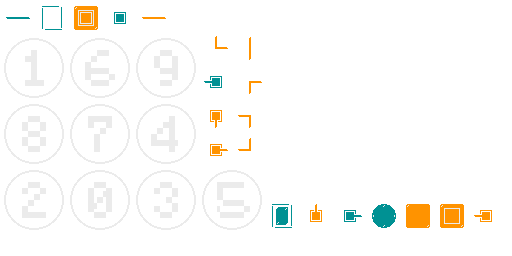
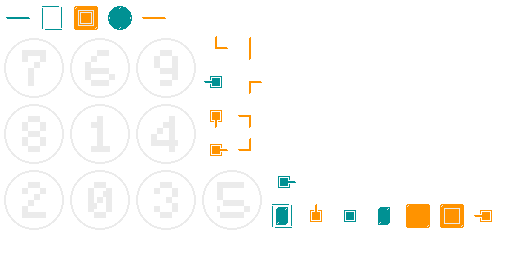
render level items

Changed region(s): [[0.7188, 0.7812, 0.7812, 0.9062], [0.1875, 0.0, 0.2812, 0.125], [0.5312, 0.6875, 0.5938, 0.75]]

diff --git a/core/src/main/java/com/jazzjack/rab/bit/cmiyc/level/meta/ObjectTypeParser.java b/core/src/main/java/com/jazzjack/rab/bit/cmiyc/level/meta/ObjectTypeParser.java
@@ -6,9 +6,8 @@ import com.badlogic.gdx.utils.XmlReader;
 
 import java.util.HashMap;
 import java.util.Map;
+import java.util.Objects;
 import java.util.stream.Stream;
-
-import static java.lang.String.format;
 
 public class ObjectTypeParser {
 
@@ -26,11 +25,13 @@ public class ObjectTypeParser {
     }
 
     public Map<String, String> getDefaultProperties(String objectType) {
+        Map<String, String> defaultProperties = new HashMap<>();
         XmlReader.Element objectTypeElement = getObjectType(objectType);
-        Array<XmlReader.Element> objectTypeProperties = objectTypeElement.getChildrenByName(ELEMENT_PROPERTY);
-        Map<String, String> defaultProperties = new HashMap<>(objectTypeProperties.size);
-        for (XmlReader.Element propertyElement : objectTypeProperties) {
-            defaultProperties.put(propertyElement.getAttribute(ATTRIBUTE_NAME), propertyElement.getAttribute(ATTRIBUTE_DEFAULT));
+        if (objectTypeElement != null) {
+            Array<XmlReader.Element> objectTypeProperties = objectTypeElement.getChildrenByName(ELEMENT_PROPERTY);
+            for (XmlReader.Element propertyElement : objectTypeProperties) {
+                defaultProperties.put(propertyElement.getAttribute(ATTRIBUTE_NAME), propertyElement.getAttribute(ATTRIBUTE_DEFAULT));
+            }
         }
         return defaultProperties;
     }
@@ -42,13 +43,10 @@ public class ObjectTypeParser {
     private XmlReader.Element getChildElementWithAttribute(XmlReader.Element parentElement, String childElementName, String attributeName, String attributeValue) {
         Array<XmlReader.Element> objecttypes = parentElement.getChildrenByName(childElementName);
         return Stream.of(objecttypes.items)
+                .filter(Objects::nonNull)
                 .filter(element -> attributeValue.equalsIgnoreCase(element.getAttribute(attributeName)))
                 .findFirst()
-                .orElseThrow(() -> new IllegalArgumentException(format(
-                        "No child element '%s' found for attribute name '%s' and attribute value '%s'",
-                        childElementName,
-                        attributeName,
-                        attributeValue)));
+                .orElse(null);
     }
 
 }

diff --git a/core/src/main/java/com/jazzjack/rab/bit/cmiyc/render/level/LevelRenderer.java b/core/src/main/java/com/jazzjack/rab/bit/cmiyc/render/level/LevelRenderer.java
@@ -7,6 +7,7 @@ import com.jazzjack.rab.bit.cmiyc.actor.enemy.route.Route;
 import com.jazzjack.rab.bit.cmiyc.actor.enemy.route.step.Step;
 import com.jazzjack.rab.bit.cmiyc.actor.enemy.route.step.StepNames;
 import com.jazzjack.rab.bit.cmiyc.level.Level;
+import com.jazzjack.rab.bit.cmiyc.level.meta.MarkerObject;
 import com.jazzjack.rab.bit.cmiyc.render.GameAssetManager;
 import com.jazzjack.rab.bit.cmiyc.render.Renderer;
 import com.jazzjack.rab.bit.cmiyc.shared.position.HasPosition;
@@ -53,6 +54,7 @@ public class LevelRenderer extends OrthogonalTiledMapRenderer implements Rendere
         renderPlayer();
         renderEnemies();
         renderEndPosition();
+        renderItems();
         batch.end();
         fogOfWarBuffer.renderSight();
     }
@@ -109,9 +111,22 @@ public class LevelRenderer extends OrthogonalTiledMapRenderer implements Rendere
                 1);
     }
 
+    private void renderItems() {
+        level.getLevelMetaData().getItems().forEach(this::drawItem);
+    }
+
+    private void drawItem(MarkerObject item) {
+        batch.draw(
+                assetManager.getTextureForName(item.getType()),
+                item.getX(),
+                item.getY(),
+                1,
+                1);
+    }
+
     private void drawActor(Actor actor) {
         batch.draw(
-                assetManager.getTextureForActor(actor),
+                assetManager.getTextureForName(actor.getName()),
                 actor.getX(),
                 actor.getY(),
                 1,

diff --git a/core/src/main/java/com/jazzjack/rab/bit/cmiyc/level/meta/MarkerObject.java b/core/src/main/java/com/jazzjack/rab/bit/cmiyc/level/meta/MarkerObject.java
@@ -2,6 +2,7 @@ package com.jazzjack.rab.bit.cmiyc.level.meta;
 
 import com.badlogic.gdx.maps.MapObject;
 import com.badlogic.gdx.maps.objects.EllipseMapObject;
+import com.badlogic.gdx.maps.objects.PolygonMapObject;
 import com.badlogic.gdx.maps.objects.RectangleMapObject;
 import com.jazzjack.rab.bit.cmiyc.level.InvalidLevelException;
 import com.jazzjack.rab.bit.cmiyc.shared.position.HasPosition;
@@ -32,6 +33,11 @@ public class MarkerObject implements HasPosition {
             return new Position(
                     (int) (rectangleMapObject.getRectangle().x / tilePixelSize),
                     (int) (rectangleMapObject.getRectangle().y / tilePixelSize));
+        } else if (mapObject instanceof PolygonMapObject) {
+            PolygonMapObject polygonMapObject = (PolygonMapObject) mapObject;
+            return new Position(
+                    (int) (polygonMapObject.getPolygon().getX() / tilePixelSize),
+                    (int) (polygonMapObject.getPolygon().getY() / tilePixelSize));
         } else {
             throw new InvalidLevelException("Unsupported marker object " + mapObject.getClass().getSimpleName());
         }

diff --git a/core/src/test/java/com/jazzjack/rab/bit/cmiyc/level/meta/LevelMetaDataFactoryTest.java b/core/src/test/java/com/jazzjack/rab/bit/cmiyc/level/meta/LevelMetaDataFactoryTest.java
@@ -52,6 +52,21 @@ class LevelMetaDataFactoryTest {
         assertEnemy(levelMetaData.getEnemies().get(2), "enemy3", Predictability.LOW, 16, 1);
     }
 
+    @Test
+    void expectItemsCorrectlyCreated() {
+        LevelMetaData levelMetaData = levelMetaDataFactory.create(levelTiledMap);
+
+        assertThat(levelMetaData.getItems()).hasSize(2);
+        assertItem(levelMetaData.getItems().get(0), "item-hp", 0, 0);
+        assertItem(levelMetaData.getItems().get(1), "item-hp", 1, 0);
+    }
+
+    private void assertItem(MarkerObject item, String name, int x, int y) {
+        assertThat(item.getType()).isEqualTo(name);
+        assertThat(item.getX()).isEqualTo(x);
+        assertThat(item.getY()).isEqualTo(y);
+    }
+
     private void assertEnemy(EnemyMarkerObject enemy, String name, Predictability predictability, int x, int y) {
         assertThat(enemy.getType()).isEqualTo(name);
         assertThat(enemy.getPredictability()).isEqualTo(predictability);

diff --git a/core/src/main/java/com/jazzjack/rab/bit/cmiyc/level/meta/LevelMetaDataFactory.java b/core/src/main/java/com/jazzjack/rab/bit/cmiyc/level/meta/LevelMetaDataFactory.java
@@ -30,7 +30,8 @@ public class LevelMetaDataFactory {
         MarkerObject startPosition = createSingleMarkerObject(tiledMap, MARKER_START, markerObjectFactory(tiledMap.getTilePixelSize()));
         MarkerObject endPosition = createSingleMarkerObject(tiledMap, MARKER_END, markerObjectFactory(tiledMap.getTilePixelSize()));
         List<EnemyMarkerObject> enemies = createListMarkerObject(tiledMap, MARKER_ENEMY, enemyMarkerObjectFactory(tiledMap.getTilePixelSize()));
-        return new LevelMetaData(startPosition, endPosition, enemies);
+        List<MarkerObject> items = createListMarkerObject(tiledMap, "item-", markerObjectFactory(tiledMap.getTilePixelSize()));
+        return new LevelMetaData(startPosition, endPosition, enemies, items);
     }
 
     private <T extends MarkerObject> T createSingleMarkerObject(LevelTiledMap tiledMap, String markerType, Function<MapObject, T> markerObjectFactory) {

diff --git a/core/src/main/java/com/jazzjack/rab/bit/cmiyc/level/meta/LevelMetaData.java b/core/src/main/java/com/jazzjack/rab/bit/cmiyc/level/meta/LevelMetaData.java
@@ -7,11 +7,13 @@ public class LevelMetaData {
     private final MarkerObject startPosition;
     private final MarkerObject endPosition;
     private final List<EnemyMarkerObject> enemies;
+    private final List<MarkerObject> items;
 
-    LevelMetaData(MarkerObject startPosition, MarkerObject endPosition, List<EnemyMarkerObject> enemies) {
+    LevelMetaData(MarkerObject startPosition, MarkerObject endPosition, List<EnemyMarkerObject> enemies, List<MarkerObject> items) {
         this.startPosition = startPosition;
         this.endPosition = endPosition;
         this.enemies = enemies;
+        this.items = items;
     }
 
     public MarkerObject getStartPosition() {
@@ -24,5 +26,9 @@ public class LevelMetaData {
 
     public List<EnemyMarkerObject> getEnemies() {
         return enemies;
+    }
+
+    public List<MarkerObject> getItems() {
+        return items;
     }
 }

diff --git a/core/src/main/java/com/jazzjack/rab/bit/cmiyc/render/GameAssetManager.java b/core/src/main/java/com/jazzjack/rab/bit/cmiyc/render/GameAssetManager.java
@@ -9,7 +9,6 @@ import com.badlogic.gdx.graphics.g2d.TextureAtlas;
 import com.badlogic.gdx.graphics.glutils.ShaderProgram;
 import com.badlogic.gdx.maps.tiled.TiledMap;
 import com.badlogic.gdx.maps.tiled.TmxMapLoader;
-import com.jazzjack.rab.bit.cmiyc.actor.Actor;
 
 import java.util.HashMap;
 import java.util.Map;
@@ -98,8 +97,8 @@ public class GameAssetManager extends AssetManager {
         return get(ATLAS_LIGHTS, TextureAtlas.class).findRegion(ATLAS_REGION_LIGHT);
     }
 
-    public TextureAtlas.AtlasRegion getTextureForActor(Actor actor) {
-        return get(ATLAS_CMIYC_ACTORS, TextureAtlas.class).findRegion(actor.getName());
+    public TextureAtlas.AtlasRegion getTextureForName(String name) {
+        return get(ATLAS_CMIYC_ACTORS, TextureAtlas.class).findRegion(name);
     }
 
     public TextureAtlas.AtlasRegion getHpFilledTexture() {

diff --git a/core/src/test/java/com/jazzjack/rab/bit/cmiyc/level/meta/ObjectTypeParserTest.java b/core/src/test/java/com/jazzjack/rab/bit/cmiyc/level/meta/ObjectTypeParserTest.java
@@ -35,4 +35,11 @@ class ObjectTypeParserTest {
         assertThat(defaultProperties).containsKey("predictability");
         assertThat(defaultProperties).containsValue("LOW");
     }
+
+    @Test
+    void epectEmptyDefautPropertiesIfObjectTypeNotFound() {
+        Map<String, String> defaultProperties = objectTypeParser.getDefaultProperties("unknown");
+
+        assertThat(defaultProperties).isEmpty();
+    }
 }
